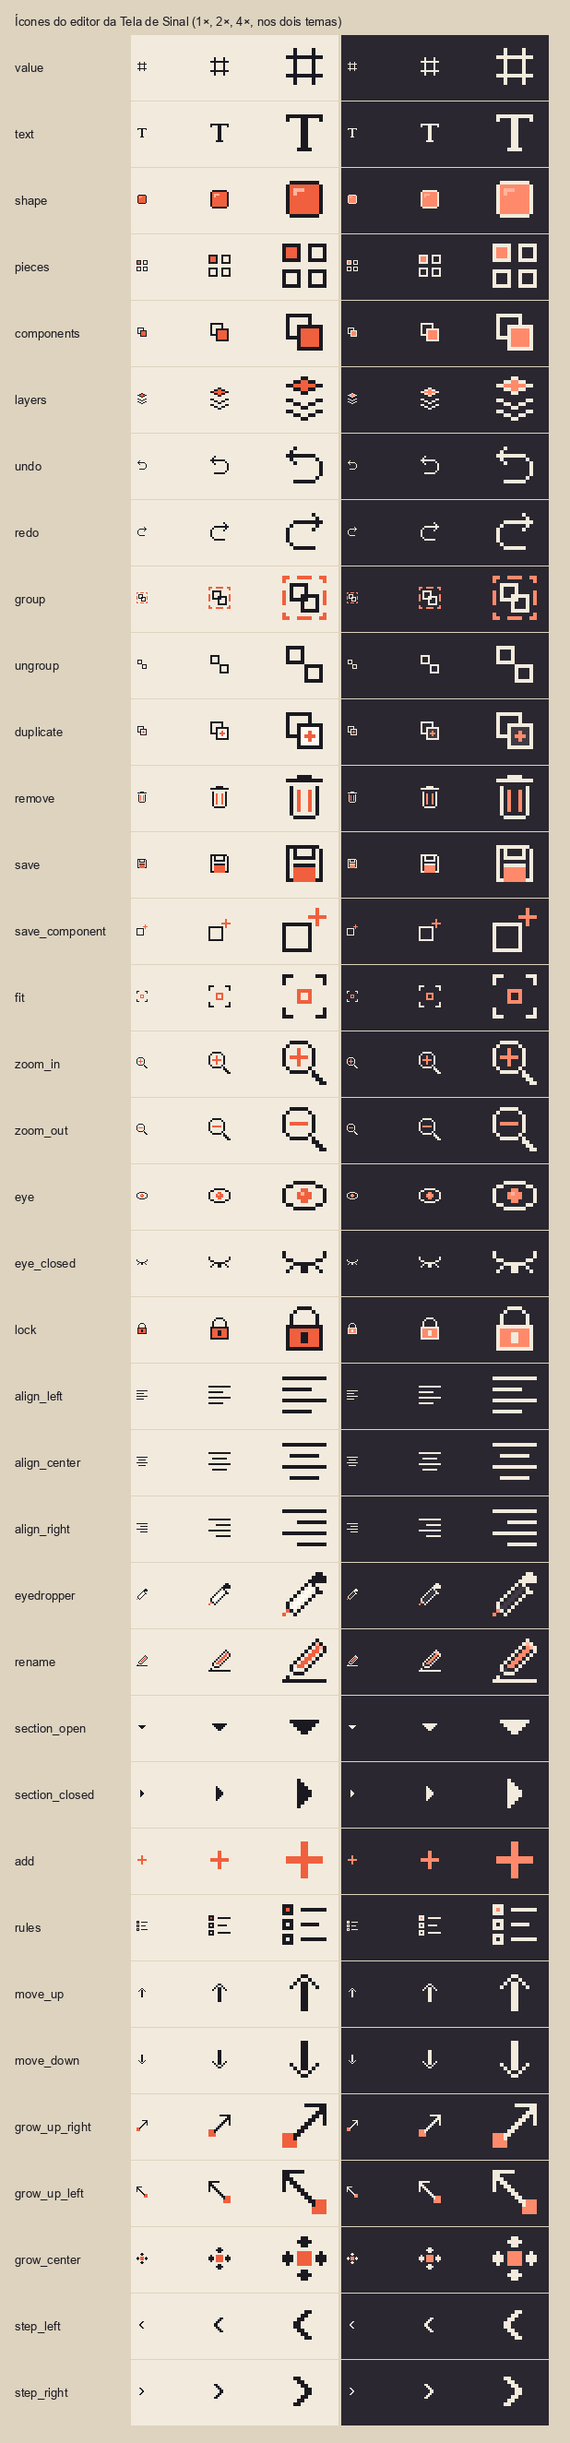
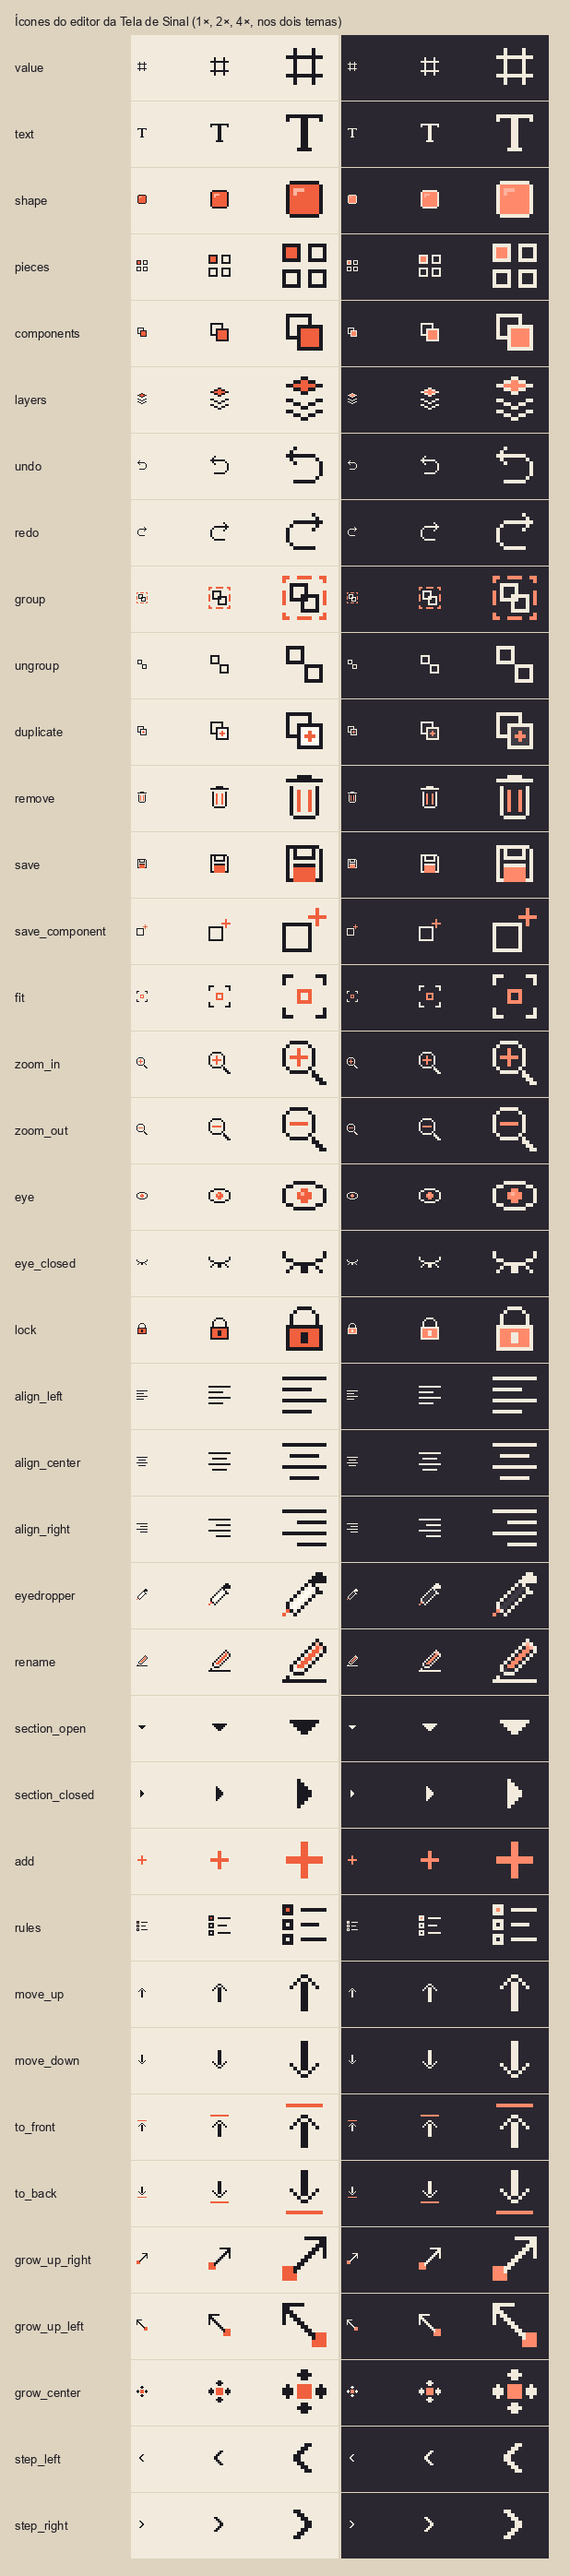
Tela de Sinal: ícones alinhados nos botões e no menu do canvas

diff --git a/src/main/java/io/github/matheusanbs/wirelessautomate/client/tv/editor/TvCanvasMenu.java b/src/main/java/io/github/matheusanbs/wirelessautomate/client/tv/editor/TvCanvasMenu.java
@@ -22,7 +22,8 @@ final class TvCanvasMenu {
     private static final int SEP = 3;
     private static final int PAD_X = 6;
     /** O ícone de cada linha, ou {@code null} nas que não têm (as camadas). */
-    private static final TvIcons.Icon[] ICONS = {null, null, null, null, TvIcons.Icon.EYE_CLOSED, TvIcons.Icon.GROUP,
+    private static final TvIcons.Icon[] ICONS = {TvIcons.Icon.TO_FRONT, TvIcons.Icon.MOVE_UP,
+            TvIcons.Icon.MOVE_DOWN, TvIcons.Icon.TO_BACK, TvIcons.Icon.EYE_CLOSED, TvIcons.Icon.GROUP,
         TvIcons.Icon.UNGROUP, TvIcons.Icon.DUPLICATE, TvIcons.Icon.REMOVE};
 
     private final TvEditorDoc doc;
@@ -110,9 +111,9 @@ final class TvCanvasMenu {
             int color = !on ? GuiPaint.DISABLED : item == Item.REMOVE ? GuiPaint.DANGER : GuiPaint.FG;
             TvIcons.Icon icon = ICONS[item.ordinal()];
             if (icon != null) {
-                TvIcons.draw(g, icon, x + 2, rowY, on);
+                TvIcons.draw(g, icon, x + TvIcons.PAD, rowY + (ROW_H - TvIcons.SIZE) / 2, on);
             }
-            GuiText.draw(g, font, labels[item.ordinal()], x + PAD_X + TvIcons.SIZE - 2, rowY + 4, color);
+            GuiText.draw(g, font, labels[item.ordinal()], x + TvIcons.LABEL_OFFSET, rowY + (ROW_H - 8) / 2, color);
         }
     }
 

diff --git a/src/main/java/io/github/matheusanbs/wirelessautomate/client/tv/editor/TvLeftTabs.java b/src/main/java/io/github/matheusanbs/wirelessautomate/client/tv/editor/TvLeftTabs.java
@@ -23,7 +23,7 @@ final class TvLeftTabs {
     /** A aba fechada: o ícone de 16 px tem 2 px de folga de cada lado, então cabe em 14. */
     private static final int SMALL_W = 14;
     /** O que o ícone ocupa de fato (a parte desenhada) mais 1 px até o nome. */
-    private static final int ICON_W = TvIcons.SIZE - 3;
+    private static final int ICON_W = TvIcons.SIZE + TvIcons.LABEL_GAP;
     private static final int GAP = 1;
 
     private final TvRect[] rects = new TvRect[TABS.length];
@@ -77,8 +77,8 @@ final class TvLeftTabs {
             int color = GuiPaint.tabText(active, hovered);
             if (active) {
                 int left = r.x() + (r.w() - ICON_W - nameWidths[i]) / 2;
-                TvIcons.draw(g, ICONS[i], left - 2, r.y() + (r.h() - TvIcons.SIZE) / 2);
-                GuiText.draw(g, font, names[i], left + ICON_W, r.y() + 4, color);
+                TvIcons.draw(g, ICONS[i], left, r.y() + (r.h() - TvIcons.SIZE) / 2);
+                GuiText.draw(g, font, names[i], left + ICON_W, r.y() + (r.h() - 8) / 2, color);
             } else {
                 TvIcons.draw(g, ICONS[i], r.x() + (r.w() - TvIcons.SIZE) / 2, r.y() + (r.h() - TvIcons.SIZE) / 2);
             }

diff --git a/src/main/java/io/github/matheusanbs/wirelessautomate/client/tv/editor/TvPalettePanel.java b/src/main/java/io/github/matheusanbs/wirelessautomate/client/tv/editor/TvPalettePanel.java
@@ -37,7 +37,7 @@ final class TvPalettePanel {
         this.font = font;
         this.layout = layout;
         for (int i = 0; i < names.length; i++) {
-            names[i] = GuiText.fit(font, TvEditorText.typeName(TYPES.get(i)), layout.pieceButtons()[i].w() - TvIcons.SIZE - 6);
+            names[i] = GuiText.fit(font, TvEditorText.typeName(TYPES.get(i)), layout.pieceButtons()[i].w() - TvIcons.LABEL_OFFSET - 2);
         }
         defaultText = TvEditorText.key("default_text").getString();
     }
@@ -47,8 +47,8 @@ final class TvPalettePanel {
             TvRect r = layout.pieceButtons()[i];
             GuiPaint.box(g, r.x(), r.y(), r.w(), r.h(), GuiPaint.BUTTON,
                     r.contains(mouseX, mouseY) ? GuiPaint.BUTTON_HOVER_BORDER : GuiPaint.BUTTON_BORDER);
-            TvIcons.draw(g, TvIcons.of(TYPES.get(i)), r.x() + 2, r.y());
-            GuiText.draw(g, font, names[i], r.x() + TvIcons.SIZE + 4, r.y() + 4, GuiPaint.FG);
+            TvIcons.draw(g, TvIcons.of(TYPES.get(i)), r.x() + TvIcons.PAD, r.y() + (r.h() - TvIcons.SIZE) / 2);
+            GuiText.draw(g, font, names[i], r.x() + TvIcons.LABEL_OFFSET, r.y() + (r.h() - 8) / 2, GuiPaint.FG);
         }
     }
 

diff --git a/src/main/java/io/github/matheusanbs/wirelessautomate/client/tv/editor/TvIcons.java b/src/main/java/io/github/matheusanbs/wirelessautomate/client/tv/editor/TvIcons.java
@@ -13,6 +13,11 @@ import net.minecraft.resources.ResourceLocation;
  */
 public final class TvIcons {
     public static final int SIZE = 16;
+    /** A margem antes do ícone e o vão entre ele e o rótulo, iguais em todo botão com ícone e texto. */
+    public static final int PAD = 2;
+    public static final int LABEL_GAP = 4;
+    /** Onde começa o rótulo de um botão com ícone que começa em {@code x}. */
+    public static final int LABEL_OFFSET = PAD + SIZE + LABEL_GAP;
     private static final float DISABLED_ALPHA = 0.4f;
 
     /** Os ícones e onde aparecem. */
@@ -45,6 +50,10 @@ public final class TvIcons {
         SAVE_COMPONENT("save_component"),
         /** Caber: o botão do zoom da miniatura. */
         FIT("fit"),
+        /** Trazer para frente: menu da miniatura. */
+        TO_FRONT("to_front"),
+        /** Enviar para trás: menu da miniatura. */
+        TO_BACK("to_back"),
         /** Peça à vista: Camadas. */
         EYE("eye"),
         /** Peça escondida: Camadas e menu da miniatura. */

diff --git a/src/main/java/io/github/matheusanbs/wirelessautomate/client/tv/TvButtons.java b/src/main/java/io/github/matheusanbs/wirelessautomate/client/tv/TvButtons.java
@@ -39,8 +39,8 @@ final class TvButtons {
         if (selected) {
             g.fill(x + 1, y + 1, x + r.w() - 1, y + r.h() - 1, GuiPaint.alpha(GuiPaint.ACCENT, 0x40));
         }
-        TvIcons.draw(g, icon, x + 2, y + (r.h() - TvIcons.SIZE) / 2);
-        GuiText.draw(g, font, text.text(), x + 2 + TvIcons.SIZE + 3, y + (r.h() - 8) / 2, GuiPaint.FG);
+        TvIcons.draw(g, icon, x + TvIcons.PAD, y + (r.h() - TvIcons.SIZE) / 2);
+        GuiText.draw(g, font, text.text(), x + TvIcons.LABEL_OFFSET, y + (r.h() - 8) / 2, GuiPaint.FG);
     }
 
     /** O botão principal (Aplicar), na cor {@code color}; desligado, afundado e apagado. */

diff --git a/scripts/textures/tela_icones.py b/scripts/textures/tela_icones.py
@@ -436,6 +436,27 @@ def _move_down(q: Quadro) -> None:
         q.p(8 + i, 12 - i)
 
 
+@icone("to_front")
+def _to_front(q: Quadro) -> None:
+    # A barra do topo e a seta subindo até ela.
+    q.h(3, 12, 2, "A")
+    q.v(7, 7, 13)
+    q.v(8, 7, 13)
+    for i in range(4):
+        q.p(7 - i, 5 + i)
+        q.p(8 + i, 5 + i)
+
+
+@icone("to_back")
+def _to_back(q: Quadro) -> None:
+    q.h(3, 12, 13, "A")
+    q.v(7, 2, 8)
+    q.v(8, 2, 8)
+    for i in range(4):
+        q.p(7 - i, 10 - i)
+        q.p(8 + i, 10 - i)
+
+
 # ---------------------------------------------------------------- aba Tamanho
 
 @icone("grow_up_right")
